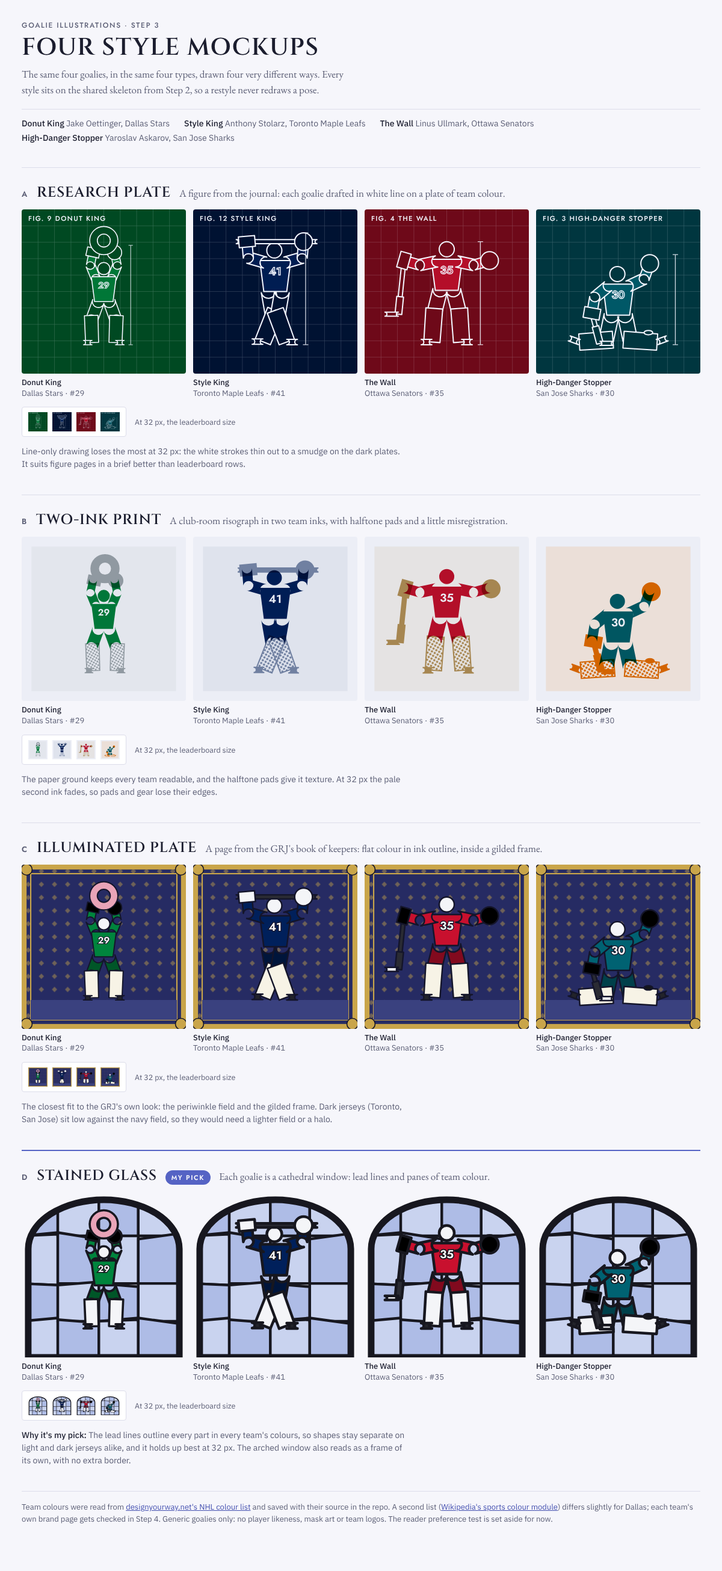
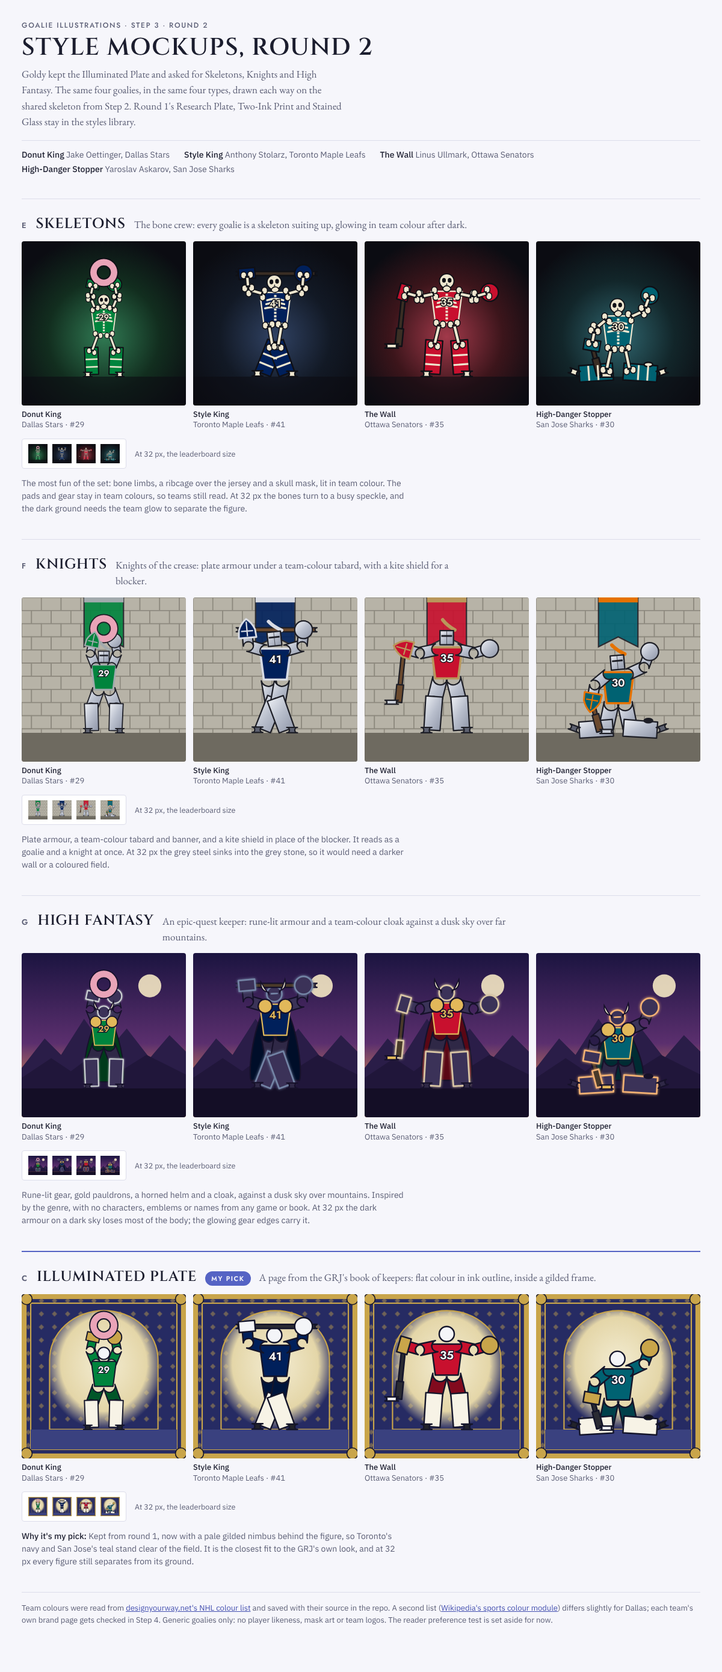
Goalie illustrations step 3 round 2: Skeletons, Knights, High Fantasy; nimbus for Illuminated Plate
Claude-Session: https://claude.ai/code/session_01Y4memTcNRCe5HDjMuxoTXv

diff --git a/illustrations/preview/styles.html b/illustrations/preview/styles.html
@@ -40,9 +40,9 @@ figcaption b { color: var(--fg); font-weight: 500; display: block }
 .foot a { color: var(--accent) }
 </style>
 <div class="wrap">
-  <p class="eyebrow">Goalie illustrations · Step 3</p>
-  <h1>Four Style Mockups</h1>
-  <p class="lede">The same four goalies, in the same four types, drawn four very different ways. Every style sits on the shared skeleton from Step 2, so a restyle never redraws a pose.</p>
+  <p class="eyebrow">Goalie illustrations · Step 3 · Round 2</p>
+  <h1>Style Mockups, Round 2</h1>
+  <p class="lede">Goldy kept the Illuminated Plate and asked for Skeletons, Knights and High Fantasy. The same four goalies, in the same four types, drawn each way on the shared skeleton from Step 2. Round 1's Research Plate, Two-Ink Print and Stained Glass stay in the styles library.</p>
   <ul class="subjects" id="subjects"></ul>
   <div id="styles"></div>
   <p class="foot">Team colours were read from <a href="https://www.designyourway.net/blog/nhl-team-color-codes/" rel="noopener">designyourway.net's NHL colour list</a> and saved with their source in the repo. A second list (<a href="https://wiki.riteme.site/wiki/Module:Sports_color/ice_hockey/sandbox" rel="noopener">Wikipedia's sports colour module</a>) differs slightly for Dallas; each team's own brand page gets checked in Step 4. Generic goalies only: no player likeness, mask art or team logos. The reader preference test is set aside for now.</p>
@@ -420,7 +420,8 @@ figcaption b { color: var(--fg); font-weight: 500; display: block }
       ${number(A, num, `font: 600 8.5px Jost, Futura, sans-serif; fill: ${paper}`)}</g></svg>`;
   }
 
-  /* D · Illuminated plate. Conceit: a page from the GRJ's book of keepers, flat colour in ink outline inside a gilded frame. */
+  /* C · Illuminated plate. Conceit: a page from the GRJ's book of keepers, flat colour in ink outline inside a gilded frame.
+     Round 2: a pale gilded nimbus behind the figure lifts dark jerseys off the navy field. */
   function illuminated(poseKey, t, num, opts = {}) {
     const A = G.parts(poseKey), gear = trim(t), ink = "#14152a", gold = "#C9A54A", field = "#262B63";
     const id = `dia-${poseKey}`;
@@ -429,14 +430,136 @@ figcaption b { color: var(--fg); font-weight: 500; display: block }
       let fill = roleFill(p.role, t, gear);
       if (p.role === "pad") fill = "#F7F3E6";
       if (p.role === "net") fill = gold;
+      if (p.role === "glove" || p.role === "blocker") fill = lum(gear) < 0.02 ? gold : gear;
       return `<path d="${p.d}" fill="${fill}" fill-rule="evenodd" stroke="${ink}" stroke-width="1.1" stroke-linejoin="round"/>`;
     }).join("");
-    return `${G.svgOpen(A.pose, opts)}<defs><pattern id="${id}" width="8" height="8" patternUnits="userSpaceOnUse"><path d="M4 2.4L5.6 4 4 5.6 2.4 4Z" fill="${gold}" opacity=".45"/></pattern></defs>
+    return `${G.svgOpen(A.pose, opts)}<defs><pattern id="${id}" width="8" height="8" patternUnits="userSpaceOnUse"><path d="M4 2.4L5.6 4 4 5.6 2.4 4Z" fill="${gold}" opacity=".45"/></pattern><radialGradient id="halo-${poseKey}" cx="50%" cy="45%" r="55%"><stop offset="0" stop-color="#F3ECD2"/><stop offset=".72" stop-color="#E4D6A8"/><stop offset="1" stop-color="#E4D6A8" stop-opacity="0"/></radialGradient></defs>
       <rect width="100" height="100" fill="${gold}"/><rect x="3" y="3" width="94" height="94" fill="${field}"/><rect x="3" y="3" width="94" height="94" fill="url(#${id})"/>
       <rect x="5.5" y="5.5" width="89" height="89" fill="none" stroke="${gold}" stroke-width=".8"/>
       ${[[3, 3], [97, 3], [3, 97], [97, 97]].map(([x, y]) => `<circle cx="${x}" cy="${y}" r="3.4" fill="${gold}" stroke="${ink}" stroke-width=".6"/>`).join("")}
+      <path d="M17 ${(7 + 0.82 * G.GROUND).toFixed(1)}V40A33 30 0 0 1 83 40V${(7 + 0.82 * G.GROUND).toFixed(1)}Z" fill="url(#halo-${poseKey})" stroke="${gold}" stroke-width=".8"/>
       <path d="M5.5 ${(7 + 0.82 * G.GROUND).toFixed(1)}H94.5V94.5H5.5Z" fill="#3a417f"/><g transform="${inset(A)}">${body}
       ${number(A, num, `font: 600 8.5px Jost, Futura, sans-serif; fill: #fff; paint-order: stroke; stroke: ${ink}; stroke-width: 1.2`)}</g></svg>`;
+  }
+
+
+  // Path helpers for styles that draw their own shapes from the skeleton's joints
+  const fx = (n) => Math.round(n * 10) / 10;
+  const P2 = (p) => `${fx(p[0])} ${fx(p[1])}`;
+  const unit = (a, b) => { const d = [b[0] - a[0], b[1] - a[1]], L = Math.hypot(d[0], d[1]) || 1; return [d[0] / L, d[1] / L]; };
+  const along = (p, u, k) => [p[0] + u[0] * k, p[1] + u[1] * k];
+  const circ = (c, r) => `M${fx(c[0] - r)} ${fx(c[1])}a${fx(r)} ${fx(r)} 0 1 0 ${fx(2 * r)} 0a${fx(r)} ${fx(r)} 0 1 0 ${fx(-2 * r)} 0Z`;
+  const stad = (a, b, w) => {
+    const u = unit(a, b), r = w / 2, n = [-u[1] * r, u[0] * r];
+    return `M${P2([a[0] + n[0], a[1] + n[1]])}L${P2([b[0] + n[0], b[1] + n[1]])}A${fx(r)} ${fx(r)} 0 0 1 ${P2([b[0] - n[0], b[1] - n[1]])}L${P2([a[0] - n[0], a[1] - n[1]])}A${fx(r)} ${fx(r)} 0 0 1 ${P2([a[0] + n[0], a[1] + n[1]])}Z`;
+  };
+  // A long bone: a shaft with two knuckles at each end
+  const bone = (a, b, w) => {
+    const u = unit(a, b), n = [-u[1], u[0]], k = w * 0.55;
+    return stad(along(a, u, w * 0.4), along(b, u, -w * 0.4), w * 0.55) +
+      [[a, 1], [b, -1]].map(([p, sgn]) => circ(along(along(p, u, sgn * w * 0.25), n, k), w * 0.45) + circ(along(along(p, u, sgn * w * 0.25), n, -k), w * 0.45)).join("");
+  };
+  const LIMBS = [["shBlocker", "elbowBlocker"], ["elbowBlocker", "handBlocker"], ["shGlove", "elbowGlove"], ["elbowGlove", "handGlove"], ["hipL", "kneeL"], ["hipR", "kneeR"]];
+
+  /* E · Skeletons. Conceit: the bone crew. Every goalie is a skeleton still suiting up, glowing in team colour after dark. */
+  function skeletons(poseKey, t, num, opts = {}) {
+    const A = G.parts(poseKey), P = A.P, ivory = "#EEE6CF", ink = "#0f1016", glow = ink2Of(t) === "#000000" ? t.accent : mix(t.primary, 0.25);
+    const keep = new Set(["net", "pad", "skate", "glove", "blocker", "shaft", "paddle", "blade", "puck", "donut", "streak", "torso"]);
+    const gear = A.parts.map((p) => {
+      if (p.role === "shadow") return `<path d="${p.d}" fill="${glow}" opacity=".35"/>`;
+      if (!keep.has(p.role)) return "";
+      const fill = { net: ivory, pad: t.primary, skate: ivory, glove: t.primary, blocker: t.primary, shaft: "#3a2e24", paddle: "#3a2e24", blade: ivory,
+        puck: ivory, donut: "#E9A4B8", streak: glow, torso: t.primary }[p.role];
+      return `<path d="${p.d}" fill="${fill}" fill-rule="evenodd" stroke="${p.role === "torso" ? ivory : ink}" stroke-width="${p.role === "torso" ? 1 : 1.1}" stroke-linejoin="round"/>`;
+    }).join("");
+    // Pads get bone-white straps, the torso a ribcage over the jersey
+    const straps = ["L", "R"].map((s) => {
+      const k = P["knee" + s], a = P["ankle" + s], u = unit(k, a), n = [-u[1], u[0]];
+      return [0.3, 0.65].map((f) => { const c = along(k, u, 20 * f); return `<path d="M${P2(along(c, n, -5.5))}L${P2(along(c, n, 5.5))}" stroke="${ivory}" stroke-width="1.4"/>`; }).join("");
+    }).join("");
+    const up = unit(P.pelvis, P.neck), side = [-up[1], up[0]];
+    const spine = `<path d="M${P2(along(P.pelvis, up, 2))}L${P2(along(P.neck, up, -2))}" stroke="${ivory}" stroke-width="1.8" stroke-dasharray="1.6 .9"/>`;
+    const ribs = [0.55, 0.68, 0.8].map((f) => {
+      const c = along(P.pelvis, up, 24 * f), w = 7.5 - (f - 0.55) * 6;
+      return `<path d="M${P2(along(along(c, side, -w), up, -2))}Q${P2(c)} ${P2(along(along(c, side, w), up, -2))}" fill="none" stroke="${ivory}" stroke-width="1.5" stroke-linecap="round"/>`;
+    }).join("");
+    const bones = LIMBS.map(([a, b]) => `<path d="${bone(P[a], P[b], 4.6)}" fill="${ivory}" stroke="${ink}" stroke-width=".7"/>`).join("") +
+      ["L", "R"].map((s) => `<path d="${bone(P["knee" + s], P["ankle" + s], 4)}" fill="${ivory}" stroke="${ink}" stroke-width=".6" opacity=".0"/>`).join("");
+    // Skull, facing the way the head points
+    const h = P.head, hd = unit(P.neck, h), hn = [-hd[1], hd[0]];
+    const eye = (sgn) => circ(along(along(h, hn, sgn * 2.1), hd, 0.6), 1.35);
+    const skull = `<path d="${circ(h, 5.4)}" fill="${ivory}" stroke="${ink}" stroke-width=".8"/>
+      <path d="${stad(along(h, hd, -5), along(h, hd, -6.4), 6)}" fill="${ivory}" stroke="${ink}" stroke-width=".7"/>
+      <path d="${eye(1)}${eye(-1)}" fill="${ink}"/><path d="M${P2(along(h, hd, -1.4))}l.6 1.4h-1.2Z" fill="${ink}"/>`;
+    const bodyParts = A.parts.filter((p) => p.role !== "torso");
+    const torso = A.parts.find((p) => p.role === "torso");
+    return `${G.svgOpen(A.pose, opts)}<defs><radialGradient id="night-${poseKey}" cx="50%" cy="58%" r="62%"><stop offset="0" stop-color="${mix(glow, -0.25)}"/><stop offset=".55" stop-color="${mix(glow, -0.72)}"/><stop offset="1" stop-color="#0b0c12"/></radialGradient></defs>
+      <rect width="100" height="100" fill="url(#night-${poseKey})"/><path d="M0 ${(7 + 0.82 * G.GROUND).toFixed(1)}H100V100H0Z" fill="#0b0c12" opacity=".6"/>
+      <g transform="${inset(A)}">${gear}${straps}${bones}${spine}${ribs}${skull}
+      ${number(A, num, `font: 600 7.5px Jost, Futura, sans-serif; fill: ${ivory}; paint-order: stroke; stroke: ${ink}; stroke-width: 1.4`)}</g></svg>`;
+  }
+
+  /* F · Knights. Conceit: the keeper as a knight of the crease, plate armour under a tabard in team colours, shield for a blocker. */
+  function knights(poseKey, t, num, opts = {}) {
+    const A = G.parts(poseKey), P = A.P, ink = "#1d1e26", trimC = t.accent.toUpperCase() !== t.primary.toUpperCase() ? t.accent : "#D9DCE4";
+    const steel = `url(#steel-${poseKey})`;
+    const body = A.parts.map((p) => {
+      if (p.role === "shadow") return `<path d="${p.d}" fill="#000" opacity=".3"/>`;
+      if (p.role === "blocker" || p.role === "mask") return "";
+      const fill = { net: "#8b5a2b", thigh: steel, pad: steel, skate: "#5d6170", torso: t.primary, arm: steel, glove: steel,
+        shaft: "#6b4a2e", paddle: "#6b4a2e", blade: "#c9ced8", puck: ink, donut: "#E9A4B8", streak: "#c9ced8" }[p.role];
+      return `<path d="${p.d}" fill="${fill}" fill-rule="evenodd" stroke="${p.role === "torso" ? trimC : ink}" stroke-width="${p.role === "torso" ? 1.6 : 1}" stroke-linejoin="round"/>`;
+    }).join("");
+    // Kite shield on the blocker hand, square to the forearm
+    const hb = P.handBlocker, fu = unit(P.elbowBlocker, hb), fn = [-fu[1], fu[0]];
+    const sh = [along(along(hb, fu, -6), fn, -6.5), along(along(hb, fu, -6), fn, 6.5), along(hb, fn, 6), along(along(hb, fu, 8), fn, 0), along(hb, fn, -6)];
+    const shield = `<path d="M${P2(sh[0])}L${P2(sh[1])}L${P2(sh[2])}Q${P2(along(along(hb, fu, 5), fn, 4))} ${P2(sh[3])}Q${P2(along(along(hb, fu, 5), fn, -4))} ${P2(sh[4])}Z" fill="${t.primary}" stroke="${trimC}" stroke-width="1.3" stroke-linejoin="round"/>
+      <path d="M${P2(along(hb, fu, -5))}L${P2(along(hb, fu, 6))}M${P2(along(along(hb, fu, -1), fn, -4.5))}L${P2(along(along(hb, fu, -1), fn, 4.5))}" stroke="${trimC}" stroke-width="1"/>`;
+    // Great helm with a visor slit and a plume in the trim colour
+    const h = P.head, hd = unit(P.neck, h), hn = [-hd[1], hd[0]];
+    const c = (a, b) => along(along(h, hd, a), hn, b);
+    const helm = `<path d="M${P2(c(5.5, 6))}Q${P2(c(9, 0))} ${P2(c(13, -3))}" fill="none" stroke="${trimC}" stroke-width="2.6" stroke-linecap="round"/>
+      <path d="M${P2(c(5, -5))}L${P2(c(5, 5))}L${P2(c(-5.5, 5))}L${P2(c(-5.5, -5))}Z" fill="${steel}" stroke="${ink}" stroke-width="1" stroke-linejoin="round"/>
+      <path d="M${P2(c(1, -4))}L${P2(c(1, 4))}" stroke="${ink}" stroke-width="1.3"/><path d="M${P2(c(5, 0))}L${P2(c(-5.5, 0))}" stroke="${ink}" stroke-width=".5" opacity=".6"/>`;
+    const blocks = [];
+    for (let y = 0; y < 84; y += 8) for (let x = (y / 8) % 2 ? -6 : 0; x < 100; x += 12) blocks.push(`<rect x="${x}" y="${y}" width="12" height="8"/>`);
+    return `${G.svgOpen(A.pose, opts)}<defs><linearGradient id="steel-${poseKey}" x1="0" y1="0" x2="1" y2="1"><stop offset="0" stop-color="#F2F4F8"/><stop offset=".5" stop-color="#B8BECC"/><stop offset="1" stop-color="#8D94A6"/></linearGradient></defs>
+      <rect width="100" height="100" fill="#a9a59a"/><g fill="#b7b3a7" stroke="#8d897e" stroke-width=".6">${blocks.join("")}</g>
+      <path d="M38 0H62V30L50 24 38 30Z" fill="${t.primary}" stroke="${ink}" stroke-width=".8" opacity=".9"/><path d="M38 0H62V3H38Z" fill="${trimC}"/>
+      <path d="M0 ${(7 + 0.82 * G.GROUND).toFixed(1)}H100V100H0Z" fill="#6e6a60"/>
+      <g transform="${inset(A)}">${body}${shield}${helm}
+      ${number(A, num, `font: 600 8px Jost, Futura, sans-serif; fill: #fff; paint-order: stroke; stroke: ${ink}; stroke-width: 1.3`)}</g></svg>`;
+  }
+
+  /* G · High fantasy. Conceit: an epic-quest keeper, rune-lit armour and a team-colour cloak against a dusk sky over far mountains. */
+  function fantasy(poseKey, t, num, opts = {}) {
+    const A = G.parts(poseKey), P = A.P, ink = "#16112a", gold = "#E2B85A";
+    const rune = mix(t.accent.toUpperCase() !== t.primary.toUpperCase() ? t.accent : t.primary, 0.45);
+    const dark = mix(t.primary, -0.55);
+    // A cloak from the shoulders, flaring behind the body toward the ice
+    const up = unit(P.pelvis, P.neck), side = [-up[1], up[0]];
+    const sb = P.shBlocker, sg = P.shGlove, foot = Math.max(P.ankleL[1], P.ankleR[1]) - 4;
+    const cloak = `<path d="M${P2(sb)}C${P2([sb[0] - 10, sb[1] + 20])} ${P2([P.pelvis[0] - 20, foot - 6])} ${P2([P.pelvis[0] - 18, foot])}L${P2([P.pelvis[0] + 18, foot])}C${P2([P.pelvis[0] + 20, foot - 6])} ${P2([sg[0] + 10, sg[1] + 20])} ${P2(sg)}Z" fill="${dark}" stroke="${ink}" stroke-width="1"/>`;
+    const body = A.parts.map((p) => {
+      if (p.role === "shadow") return `<path d="${p.d}" fill="${rune}" opacity=".4"/>`;
+      const fill = { net: gold, thigh: "#2f2846", pad: "#3b3358", skate: "#2f2846", torso: t.primary, arm: "#3b3358", glove: "#3b3358", blocker: "#3b3358",
+        mask: "#3b3358", shaft: "#4a3a2a", paddle: "#4a3a2a", blade: gold, puck: ink, donut: "#E9A4B8", streak: rune }[p.role];
+      const glowing = ["pad", "glove", "blocker", "mask", "paddle"].includes(p.role);
+      return `<path d="${p.d}" fill="${fill}" fill-rule="evenodd" stroke="${glowing ? rune : p.role === "torso" ? gold : ink}" stroke-width="${glowing ? 1.2 : 1}" stroke-linejoin="round"${glowing ? ` filter="url(#glow-${poseKey})"` : ""}/>`;
+    }).join("");
+    // Pauldrons, and horns on the helm
+    const pauldrons = [sb, sg].map((s) => `<path d="${circ(s, 5.2)}" fill="${gold}" stroke="${ink}" stroke-width="1"/>`).join("");
+    const h = P.head, hd = unit(P.neck, h), hn = [-hd[1], hd[0]];
+    const horn = (sgn) => { const b = along(along(h, hn, sgn * 4), hd, 2); return `<path d="M${P2(b)}Q${P2(along(along(b, hn, sgn * 6), hd, 1))} ${P2(along(along(b, hn, sgn * 5), hd, 8))}Q${P2(along(along(b, hn, sgn * 3), hd, 3))} ${P2(along(b, hd, -1.5))}Z" fill="#E9E1C8" stroke="${ink}" stroke-width=".8"/>`; };
+    const eyes = `<path d="M${P2(along(along(h, hd, .5), hn, -2.6))}L${P2(along(along(h, hd, .5), hn, 2.6))}" stroke="${rune}" stroke-width="1.2" filter="url(#glow-${poseKey})"/>`;
+    const gy = (7 + 0.82 * G.GROUND).toFixed(1);
+    return `${G.svgOpen(A.pose, opts)}<defs><linearGradient id="dusk-${poseKey}" x1="0" y1="0" x2="0" y2="1"><stop offset="0" stop-color="#1b1440"/><stop offset=".55" stop-color="#5b2f6e"/><stop offset=".85" stop-color="#d98a52"/></linearGradient>
+      <filter id="glow-${poseKey}" x="-30%" y="-30%" width="160%" height="160%"><feGaussianBlur stdDeviation=".9" result="b"/><feMerge><feMergeNode in="b"/><feMergeNode in="SourceGraphic"/></feMerge></filter></defs>
+      <rect width="100" height="100" fill="url(#dusk-${poseKey})"/><circle cx="78" cy="20" r="7" fill="#F4E7C3" opacity=".9"/>
+      <path d="M0 70L14 52 24 62 38 40 52 60 64 46 78 64 90 50 100 60V${gy}H0Z" fill="#2a1d48"/><path d="M0 76L18 64 30 72 46 60 60 72 76 62 100 74V${gy}H0Z" fill="#20163a"/>
+      <path d="M0 ${gy}H100V100H0Z" fill="#140e26"/>
+      <g transform="${inset(A)}">${cloak}${body}${pauldrons}${horn(1)}${horn(-1)}${eyes}
+      ${number(A, num, `font: 600 8px Jost, Futura, sans-serif; fill: ${gold}; paint-order: stroke; stroke: ${ink}; stroke-width: 1.3`)}</g></svg>`;
   }
 
   return {
@@ -446,6 +569,9 @@ figcaption b { color: var(--fg); font-weight: 500; display: block }
       plate: { name: "Research Plate", conceit: "A figure from the journal: each goalie drafted in white line on a plate of team colour.", draw: plate },
       riso: { name: "Two-Ink Print", conceit: "A club-room risograph in two team inks, with halftone pads and a little misregistration.", draw: riso },
       illuminated: { name: "Illuminated Plate", conceit: "A page from the GRJ's book of keepers: flat colour in ink outline, inside a gilded frame.", draw: illuminated },
+      skeletons: { name: "Skeletons", conceit: "The bone crew: every goalie is a skeleton suiting up, glowing in team colour after dark.", draw: skeletons },
+      knights: { name: "Knights", conceit: "Knights of the crease: plate armour under a team-colour tabard, with a kite shield for a blocker.", draw: knights },
+      fantasy: { name: "High Fantasy", conceit: "An epic-quest keeper: rune-lit armour and a team-colour cloak against a dusk sky over far mountains.", draw: fantasy },
     },
   };
 });
@@ -474,10 +600,10 @@ const SUBJECTS = [
   { pose: "hd-stopper", team: "SJS", num: "30", who: "Yaroslav Askarov" },
 ];
 const ORDER = [
-  ["plate", "A", "Line-only drawing loses the most at 32 px: the white strokes thin out to a smudge on the dark plates. It suits figure pages in a brief better than leaderboard rows."],
-  ["riso", "B", "The paper ground keeps every team readable, and the halftone pads give it texture. At 32 px the pale second ink fades, so pads and gear lose their edges."],
-  ["illuminated", "C", "The closest fit to the GRJ's own look: the periwinkle field and the gilded frame. Dark jerseys (Toronto, San Jose) sit low against the navy field, so they would need a lighter field or a halo."],
-  ["glass", "D", "The lead lines outline every part in every team's colours, so shapes stay separate on light and dark jerseys alike, and it holds up best at 32 px. The arched window also reads as a frame of its own, with no extra border."],
+  ["skeletons", "E", "The most fun of the set: bone limbs, a ribcage over the jersey and a skull mask, lit in team colour. The pads and gear stay in team colours, so teams still read. At 32 px the bones turn to a busy speckle, and the dark ground needs the team glow to separate the figure."],
+  ["knights", "F", "Plate armour, a team-colour tabard and banner, and a kite shield in place of the blocker. It reads as a goalie and a knight at once. At 32 px the grey steel sinks into the grey stone, so it would need a darker wall or a coloured field."],
+  ["fantasy", "G", "Rune-lit gear, gold pauldrons, a horned helm and a cloak, against a dusk sky over mountains. Inspired by the genre, with no characters, emblems or names from any game or book. At 32 px the dark armour on a dark sky loses most of the body; the glowing gear edges carry it."],
+  ["illuminated", "C", "Kept from round 1, now with a pale gilded nimbus behind the figure, so Toronto's navy and San Jose's teal stand clear of the field. It is the closest fit to the GRJ's own look, and at 32 px every figure still separates from its ground."],
 ];
 document.getElementById("subjects").innerHTML = SUBJECTS.map((s) => `<li><b>${G.POSES[s.pose].name}</b> ${s.who}, ${TEAMS[s.team].name}</li>`).join("");
 document.getElementById("styles").innerHTML = ORDER.map(([k, letter, why], i) => {

diff --git a/illustrations/styles.js b/illustrations/styles.js
@@ -103,7 +103,8 @@
       ${number(A, num, `font: 600 8.5px Jost, Futura, sans-serif; fill: ${paper}`)}</g></svg>`;
   }
 
-  /* D · Illuminated plate. Conceit: a page from the GRJ's book of keepers, flat colour in ink outline inside a gilded frame. */
+  /* C · Illuminated plate. Conceit: a page from the GRJ's book of keepers, flat colour in ink outline inside a gilded frame.
+     Round 2: a pale gilded nimbus behind the figure lifts dark jerseys off the navy field. */
   function illuminated(poseKey, t, num, opts = {}) {
     const A = G.parts(poseKey), gear = trim(t), ink = "#14152a", gold = "#C9A54A", field = "#262B63";
     const id = `dia-${poseKey}`;
@@ -112,14 +113,136 @@
       let fill = roleFill(p.role, t, gear);
       if (p.role === "pad") fill = "#F7F3E6";
       if (p.role === "net") fill = gold;
+      if (p.role === "glove" || p.role === "blocker") fill = lum(gear) < 0.02 ? gold : gear;
       return `<path d="${p.d}" fill="${fill}" fill-rule="evenodd" stroke="${ink}" stroke-width="1.1" stroke-linejoin="round"/>`;
     }).join("");
-    return `${G.svgOpen(A.pose, opts)}<defs><pattern id="${id}" width="8" height="8" patternUnits="userSpaceOnUse"><path d="M4 2.4L5.6 4 4 5.6 2.4 4Z" fill="${gold}" opacity=".45"/></pattern></defs>
+    return `${G.svgOpen(A.pose, opts)}<defs><pattern id="${id}" width="8" height="8" patternUnits="userSpaceOnUse"><path d="M4 2.4L5.6 4 4 5.6 2.4 4Z" fill="${gold}" opacity=".45"/></pattern><radialGradient id="halo-${poseKey}" cx="50%" cy="45%" r="55%"><stop offset="0" stop-color="#F3ECD2"/><stop offset=".72" stop-color="#E4D6A8"/><stop offset="1" stop-color="#E4D6A8" stop-opacity="0"/></radialGradient></defs>
       <rect width="100" height="100" fill="${gold}"/><rect x="3" y="3" width="94" height="94" fill="${field}"/><rect x="3" y="3" width="94" height="94" fill="url(#${id})"/>
       <rect x="5.5" y="5.5" width="89" height="89" fill="none" stroke="${gold}" stroke-width=".8"/>
       ${[[3, 3], [97, 3], [3, 97], [97, 97]].map(([x, y]) => `<circle cx="${x}" cy="${y}" r="3.4" fill="${gold}" stroke="${ink}" stroke-width=".6"/>`).join("")}
+      <path d="M17 ${(7 + 0.82 * G.GROUND).toFixed(1)}V40A33 30 0 0 1 83 40V${(7 + 0.82 * G.GROUND).toFixed(1)}Z" fill="url(#halo-${poseKey})" stroke="${gold}" stroke-width=".8"/>
       <path d="M5.5 ${(7 + 0.82 * G.GROUND).toFixed(1)}H94.5V94.5H5.5Z" fill="#3a417f"/><g transform="${inset(A)}">${body}
       ${number(A, num, `font: 600 8.5px Jost, Futura, sans-serif; fill: #fff; paint-order: stroke; stroke: ${ink}; stroke-width: 1.2`)}</g></svg>`;
+  }
+
+
+  // Path helpers for styles that draw their own shapes from the skeleton's joints
+  const fx = (n) => Math.round(n * 10) / 10;
+  const P2 = (p) => `${fx(p[0])} ${fx(p[1])}`;
+  const unit = (a, b) => { const d = [b[0] - a[0], b[1] - a[1]], L = Math.hypot(d[0], d[1]) || 1; return [d[0] / L, d[1] / L]; };
+  const along = (p, u, k) => [p[0] + u[0] * k, p[1] + u[1] * k];
+  const circ = (c, r) => `M${fx(c[0] - r)} ${fx(c[1])}a${fx(r)} ${fx(r)} 0 1 0 ${fx(2 * r)} 0a${fx(r)} ${fx(r)} 0 1 0 ${fx(-2 * r)} 0Z`;
+  const stad = (a, b, w) => {
+    const u = unit(a, b), r = w / 2, n = [-u[1] * r, u[0] * r];
+    return `M${P2([a[0] + n[0], a[1] + n[1]])}L${P2([b[0] + n[0], b[1] + n[1]])}A${fx(r)} ${fx(r)} 0 0 1 ${P2([b[0] - n[0], b[1] - n[1]])}L${P2([a[0] - n[0], a[1] - n[1]])}A${fx(r)} ${fx(r)} 0 0 1 ${P2([a[0] + n[0], a[1] + n[1]])}Z`;
+  };
+  // A long bone: a shaft with two knuckles at each end
+  const bone = (a, b, w) => {
+    const u = unit(a, b), n = [-u[1], u[0]], k = w * 0.55;
+    return stad(along(a, u, w * 0.4), along(b, u, -w * 0.4), w * 0.55) +
+      [[a, 1], [b, -1]].map(([p, sgn]) => circ(along(along(p, u, sgn * w * 0.25), n, k), w * 0.45) + circ(along(along(p, u, sgn * w * 0.25), n, -k), w * 0.45)).join("");
+  };
+  const LIMBS = [["shBlocker", "elbowBlocker"], ["elbowBlocker", "handBlocker"], ["shGlove", "elbowGlove"], ["elbowGlove", "handGlove"], ["hipL", "kneeL"], ["hipR", "kneeR"]];
+
+  /* E · Skeletons. Conceit: the bone crew. Every goalie is a skeleton still suiting up, glowing in team colour after dark. */
+  function skeletons(poseKey, t, num, opts = {}) {
+    const A = G.parts(poseKey), P = A.P, ivory = "#EEE6CF", ink = "#0f1016", glow = ink2Of(t) === "#000000" ? t.accent : mix(t.primary, 0.25);
+    const keep = new Set(["net", "pad", "skate", "glove", "blocker", "shaft", "paddle", "blade", "puck", "donut", "streak", "torso"]);
+    const gear = A.parts.map((p) => {
+      if (p.role === "shadow") return `<path d="${p.d}" fill="${glow}" opacity=".35"/>`;
+      if (!keep.has(p.role)) return "";
+      const fill = { net: ivory, pad: t.primary, skate: ivory, glove: t.primary, blocker: t.primary, shaft: "#3a2e24", paddle: "#3a2e24", blade: ivory,
+        puck: ivory, donut: "#E9A4B8", streak: glow, torso: t.primary }[p.role];
+      return `<path d="${p.d}" fill="${fill}" fill-rule="evenodd" stroke="${p.role === "torso" ? ivory : ink}" stroke-width="${p.role === "torso" ? 1 : 1.1}" stroke-linejoin="round"/>`;
+    }).join("");
+    // Pads get bone-white straps, the torso a ribcage over the jersey
+    const straps = ["L", "R"].map((s) => {
+      const k = P["knee" + s], a = P["ankle" + s], u = unit(k, a), n = [-u[1], u[0]];
+      return [0.3, 0.65].map((f) => { const c = along(k, u, 20 * f); return `<path d="M${P2(along(c, n, -5.5))}L${P2(along(c, n, 5.5))}" stroke="${ivory}" stroke-width="1.4"/>`; }).join("");
+    }).join("");
+    const up = unit(P.pelvis, P.neck), side = [-up[1], up[0]];
+    const spine = `<path d="M${P2(along(P.pelvis, up, 2))}L${P2(along(P.neck, up, -2))}" stroke="${ivory}" stroke-width="1.8" stroke-dasharray="1.6 .9"/>`;
+    const ribs = [0.55, 0.68, 0.8].map((f) => {
+      const c = along(P.pelvis, up, 24 * f), w = 7.5 - (f - 0.55) * 6;
+      return `<path d="M${P2(along(along(c, side, -w), up, -2))}Q${P2(c)} ${P2(along(along(c, side, w), up, -2))}" fill="none" stroke="${ivory}" stroke-width="1.5" stroke-linecap="round"/>`;
+    }).join("");
+    const bones = LIMBS.map(([a, b]) => `<path d="${bone(P[a], P[b], 4.6)}" fill="${ivory}" stroke="${ink}" stroke-width=".7"/>`).join("") +
+      ["L", "R"].map((s) => `<path d="${bone(P["knee" + s], P["ankle" + s], 4)}" fill="${ivory}" stroke="${ink}" stroke-width=".6" opacity=".0"/>`).join("");
+    // Skull, facing the way the head points
+    const h = P.head, hd = unit(P.neck, h), hn = [-hd[1], hd[0]];
+    const eye = (sgn) => circ(along(along(h, hn, sgn * 2.1), hd, 0.6), 1.35);
+    const skull = `<path d="${circ(h, 5.4)}" fill="${ivory}" stroke="${ink}" stroke-width=".8"/>
+      <path d="${stad(along(h, hd, -5), along(h, hd, -6.4), 6)}" fill="${ivory}" stroke="${ink}" stroke-width=".7"/>
+      <path d="${eye(1)}${eye(-1)}" fill="${ink}"/><path d="M${P2(along(h, hd, -1.4))}l.6 1.4h-1.2Z" fill="${ink}"/>`;
+    const bodyParts = A.parts.filter((p) => p.role !== "torso");
+    const torso = A.parts.find((p) => p.role === "torso");
+    return `${G.svgOpen(A.pose, opts)}<defs><radialGradient id="night-${poseKey}" cx="50%" cy="58%" r="62%"><stop offset="0" stop-color="${mix(glow, -0.25)}"/><stop offset=".55" stop-color="${mix(glow, -0.72)}"/><stop offset="1" stop-color="#0b0c12"/></radialGradient></defs>
+      <rect width="100" height="100" fill="url(#night-${poseKey})"/><path d="M0 ${(7 + 0.82 * G.GROUND).toFixed(1)}H100V100H0Z" fill="#0b0c12" opacity=".6"/>
+      <g transform="${inset(A)}">${gear}${straps}${bones}${spine}${ribs}${skull}
+      ${number(A, num, `font: 600 7.5px Jost, Futura, sans-serif; fill: ${ivory}; paint-order: stroke; stroke: ${ink}; stroke-width: 1.4`)}</g></svg>`;
+  }
+
+  /* F · Knights. Conceit: the keeper as a knight of the crease, plate armour under a tabard in team colours, shield for a blocker. */
+  function knights(poseKey, t, num, opts = {}) {
+    const A = G.parts(poseKey), P = A.P, ink = "#1d1e26", trimC = t.accent.toUpperCase() !== t.primary.toUpperCase() ? t.accent : "#D9DCE4";
+    const steel = `url(#steel-${poseKey})`;
+    const body = A.parts.map((p) => {
+      if (p.role === "shadow") return `<path d="${p.d}" fill="#000" opacity=".3"/>`;
+      if (p.role === "blocker" || p.role === "mask") return "";
+      const fill = { net: "#8b5a2b", thigh: steel, pad: steel, skate: "#5d6170", torso: t.primary, arm: steel, glove: steel,
+        shaft: "#6b4a2e", paddle: "#6b4a2e", blade: "#c9ced8", puck: ink, donut: "#E9A4B8", streak: "#c9ced8" }[p.role];
+      return `<path d="${p.d}" fill="${fill}" fill-rule="evenodd" stroke="${p.role === "torso" ? trimC : ink}" stroke-width="${p.role === "torso" ? 1.6 : 1}" stroke-linejoin="round"/>`;
+    }).join("");
+    // Kite shield on the blocker hand, square to the forearm
+    const hb = P.handBlocker, fu = unit(P.elbowBlocker, hb), fn = [-fu[1], fu[0]];
+    const sh = [along(along(hb, fu, -6), fn, -6.5), along(along(hb, fu, -6), fn, 6.5), along(hb, fn, 6), along(along(hb, fu, 8), fn, 0), along(hb, fn, -6)];
+    const shield = `<path d="M${P2(sh[0])}L${P2(sh[1])}L${P2(sh[2])}Q${P2(along(along(hb, fu, 5), fn, 4))} ${P2(sh[3])}Q${P2(along(along(hb, fu, 5), fn, -4))} ${P2(sh[4])}Z" fill="${t.primary}" stroke="${trimC}" stroke-width="1.3" stroke-linejoin="round"/>
+      <path d="M${P2(along(hb, fu, -5))}L${P2(along(hb, fu, 6))}M${P2(along(along(hb, fu, -1), fn, -4.5))}L${P2(along(along(hb, fu, -1), fn, 4.5))}" stroke="${trimC}" stroke-width="1"/>`;
+    // Great helm with a visor slit and a plume in the trim colour
+    const h = P.head, hd = unit(P.neck, h), hn = [-hd[1], hd[0]];
+    const c = (a, b) => along(along(h, hd, a), hn, b);
+    const helm = `<path d="M${P2(c(5.5, 6))}Q${P2(c(9, 0))} ${P2(c(13, -3))}" fill="none" stroke="${trimC}" stroke-width="2.6" stroke-linecap="round"/>
+      <path d="M${P2(c(5, -5))}L${P2(c(5, 5))}L${P2(c(-5.5, 5))}L${P2(c(-5.5, -5))}Z" fill="${steel}" stroke="${ink}" stroke-width="1" stroke-linejoin="round"/>
+      <path d="M${P2(c(1, -4))}L${P2(c(1, 4))}" stroke="${ink}" stroke-width="1.3"/><path d="M${P2(c(5, 0))}L${P2(c(-5.5, 0))}" stroke="${ink}" stroke-width=".5" opacity=".6"/>`;
+    const blocks = [];
+    for (let y = 0; y < 84; y += 8) for (let x = (y / 8) % 2 ? -6 : 0; x < 100; x += 12) blocks.push(`<rect x="${x}" y="${y}" width="12" height="8"/>`);
+    return `${G.svgOpen(A.pose, opts)}<defs><linearGradient id="steel-${poseKey}" x1="0" y1="0" x2="1" y2="1"><stop offset="0" stop-color="#F2F4F8"/><stop offset=".5" stop-color="#B8BECC"/><stop offset="1" stop-color="#8D94A6"/></linearGradient></defs>
+      <rect width="100" height="100" fill="#a9a59a"/><g fill="#b7b3a7" stroke="#8d897e" stroke-width=".6">${blocks.join("")}</g>
+      <path d="M38 0H62V30L50 24 38 30Z" fill="${t.primary}" stroke="${ink}" stroke-width=".8" opacity=".9"/><path d="M38 0H62V3H38Z" fill="${trimC}"/>
+      <path d="M0 ${(7 + 0.82 * G.GROUND).toFixed(1)}H100V100H0Z" fill="#6e6a60"/>
+      <g transform="${inset(A)}">${body}${shield}${helm}
+      ${number(A, num, `font: 600 8px Jost, Futura, sans-serif; fill: #fff; paint-order: stroke; stroke: ${ink}; stroke-width: 1.3`)}</g></svg>`;
+  }
+
+  /* G · High fantasy. Conceit: an epic-quest keeper, rune-lit armour and a team-colour cloak against a dusk sky over far mountains. */
+  function fantasy(poseKey, t, num, opts = {}) {
+    const A = G.parts(poseKey), P = A.P, ink = "#16112a", gold = "#E2B85A";
+    const rune = mix(t.accent.toUpperCase() !== t.primary.toUpperCase() ? t.accent : t.primary, 0.45);
+    const dark = mix(t.primary, -0.55);
+    // A cloak from the shoulders, flaring behind the body toward the ice
+    const up = unit(P.pelvis, P.neck), side = [-up[1], up[0]];
+    const sb = P.shBlocker, sg = P.shGlove, foot = Math.max(P.ankleL[1], P.ankleR[1]) - 4;
+    const cloak = `<path d="M${P2(sb)}C${P2([sb[0] - 10, sb[1] + 20])} ${P2([P.pelvis[0] - 20, foot - 6])} ${P2([P.pelvis[0] - 18, foot])}L${P2([P.pelvis[0] + 18, foot])}C${P2([P.pelvis[0] + 20, foot - 6])} ${P2([sg[0] + 10, sg[1] + 20])} ${P2(sg)}Z" fill="${dark}" stroke="${ink}" stroke-width="1"/>`;
+    const body = A.parts.map((p) => {
+      if (p.role === "shadow") return `<path d="${p.d}" fill="${rune}" opacity=".4"/>`;
+      const fill = { net: gold, thigh: "#2f2846", pad: "#3b3358", skate: "#2f2846", torso: t.primary, arm: "#3b3358", glove: "#3b3358", blocker: "#3b3358",
+        mask: "#3b3358", shaft: "#4a3a2a", paddle: "#4a3a2a", blade: gold, puck: ink, donut: "#E9A4B8", streak: rune }[p.role];
+      const glowing = ["pad", "glove", "blocker", "mask", "paddle"].includes(p.role);
+      return `<path d="${p.d}" fill="${fill}" fill-rule="evenodd" stroke="${glowing ? rune : p.role === "torso" ? gold : ink}" stroke-width="${glowing ? 1.2 : 1}" stroke-linejoin="round"${glowing ? ` filter="url(#glow-${poseKey})"` : ""}/>`;
+    }).join("");
+    // Pauldrons, and horns on the helm
+    const pauldrons = [sb, sg].map((s) => `<path d="${circ(s, 5.2)}" fill="${gold}" stroke="${ink}" stroke-width="1"/>`).join("");
+    const h = P.head, hd = unit(P.neck, h), hn = [-hd[1], hd[0]];
+    const horn = (sgn) => { const b = along(along(h, hn, sgn * 4), hd, 2); return `<path d="M${P2(b)}Q${P2(along(along(b, hn, sgn * 6), hd, 1))} ${P2(along(along(b, hn, sgn * 5), hd, 8))}Q${P2(along(along(b, hn, sgn * 3), hd, 3))} ${P2(along(b, hd, -1.5))}Z" fill="#E9E1C8" stroke="${ink}" stroke-width=".8"/>`; };
+    const eyes = `<path d="M${P2(along(along(h, hd, .5), hn, -2.6))}L${P2(along(along(h, hd, .5), hn, 2.6))}" stroke="${rune}" stroke-width="1.2" filter="url(#glow-${poseKey})"/>`;
+    const gy = (7 + 0.82 * G.GROUND).toFixed(1);
+    return `${G.svgOpen(A.pose, opts)}<defs><linearGradient id="dusk-${poseKey}" x1="0" y1="0" x2="0" y2="1"><stop offset="0" stop-color="#1b1440"/><stop offset=".55" stop-color="#5b2f6e"/><stop offset=".85" stop-color="#d98a52"/></linearGradient>
+      <filter id="glow-${poseKey}" x="-30%" y="-30%" width="160%" height="160%"><feGaussianBlur stdDeviation=".9" result="b"/><feMerge><feMergeNode in="b"/><feMergeNode in="SourceGraphic"/></feMerge></filter></defs>
+      <rect width="100" height="100" fill="url(#dusk-${poseKey})"/><circle cx="78" cy="20" r="7" fill="#F4E7C3" opacity=".9"/>
+      <path d="M0 70L14 52 24 62 38 40 52 60 64 46 78 64 90 50 100 60V${gy}H0Z" fill="#2a1d48"/><path d="M0 76L18 64 30 72 46 60 60 72 76 62 100 74V${gy}H0Z" fill="#20163a"/>
+      <path d="M0 ${gy}H100V100H0Z" fill="#140e26"/>
+      <g transform="${inset(A)}">${cloak}${body}${pauldrons}${horn(1)}${horn(-1)}${eyes}
+      ${number(A, num, `font: 600 8px Jost, Futura, sans-serif; fill: ${gold}; paint-order: stroke; stroke: ${ink}; stroke-width: 1.3`)}</g></svg>`;
   }
 
   return {
@@ -129,6 +252,9 @@
       plate: { name: "Research Plate", conceit: "A figure from the journal: each goalie drafted in white line on a plate of team colour.", draw: plate },
       riso: { name: "Two-Ink Print", conceit: "A club-room risograph in two team inks, with halftone pads and a little misregistration.", draw: riso },
       illuminated: { name: "Illuminated Plate", conceit: "A page from the GRJ's book of keepers: flat colour in ink outline, inside a gilded frame.", draw: illuminated },
+      skeletons: { name: "Skeletons", conceit: "The bone crew: every goalie is a skeleton suiting up, glowing in team colour after dark.", draw: skeletons },
+      knights: { name: "Knights", conceit: "Knights of the crease: plate armour under a team-colour tabard, with a kite shield for a blocker.", draw: knights },
+      fantasy: { name: "High Fantasy", conceit: "An epic-quest keeper: rune-lit armour and a team-colour cloak against a dusk sky over far mountains.", draw: fantasy },
     },
   };
 });

diff --git a/illustrations/preview/styles.tpl.html b/illustrations/preview/styles.tpl.html
@@ -40,9 +40,9 @@ figcaption b { color: var(--fg); font-weight: 500; display: block }
 .foot a { color: var(--accent) }
 </style>
 <div class="wrap">
-  <p class="eyebrow">Goalie illustrations · Step 3</p>
-  <h1>Four Style Mockups</h1>
-  <p class="lede">The same four goalies, in the same four types, drawn four very different ways. Every style sits on the shared skeleton from Step 2, so a restyle never redraws a pose.</p>
+  <p class="eyebrow">Goalie illustrations · Step 3 · Round 2</p>
+  <h1>Style Mockups, Round 2</h1>
+  <p class="lede">Goldy kept the Illuminated Plate and asked for Skeletons, Knights and High Fantasy. The same four goalies, in the same four types, drawn each way on the shared skeleton from Step 2. Round 1's Research Plate, Two-Ink Print and Stained Glass stay in the styles library.</p>
   <ul class="subjects" id="subjects"></ul>
   <div id="styles"></div>
   <p class="foot">Team colours were read from <a href="https://www.designyourway.net/blog/nhl-team-color-codes/" rel="noopener">designyourway.net's NHL colour list</a> and saved with their source in the repo. A second list (<a href="https://wiki.riteme.site/wiki/Module:Sports_color/ice_hockey/sandbox" rel="noopener">Wikipedia's sports colour module</a>) differs slightly for Dallas; each team's own brand page gets checked in Step 4. Generic goalies only: no player likeness, mask art or team logos. The reader preference test is set aside for now.</p>
@@ -59,10 +59,10 @@ const SUBJECTS = [
   { pose: "hd-stopper", team: "SJS", num: "30", who: "Yaroslav Askarov" },
 ];
 const ORDER = [
-  ["plate", "A", "Line-only drawing loses the most at 32 px: the white strokes thin out to a smudge on the dark plates. It suits figure pages in a brief better than leaderboard rows."],
-  ["riso", "B", "The paper ground keeps every team readable, and the halftone pads give it texture. At 32 px the pale second ink fades, so pads and gear lose their edges."],
-  ["illuminated", "C", "The closest fit to the GRJ's own look: the periwinkle field and the gilded frame. Dark jerseys (Toronto, San Jose) sit low against the navy field, so they would need a lighter field or a halo."],
-  ["glass", "D", "The lead lines outline every part in every team's colours, so shapes stay separate on light and dark jerseys alike, and it holds up best at 32 px. The arched window also reads as a frame of its own, with no extra border."],
+  ["skeletons", "E", "The most fun of the set: bone limbs, a ribcage over the jersey and a skull mask, lit in team colour. The pads and gear stay in team colours, so teams still read. At 32 px the bones turn to a busy speckle, and the dark ground needs the team glow to separate the figure."],
+  ["knights", "F", "Plate armour, a team-colour tabard and banner, and a kite shield in place of the blocker. It reads as a goalie and a knight at once. At 32 px the grey steel sinks into the grey stone, so it would need a darker wall or a coloured field."],
+  ["fantasy", "G", "Rune-lit gear, gold pauldrons, a horned helm and a cloak, against a dusk sky over mountains. Inspired by the genre, with no characters, emblems or names from any game or book. At 32 px the dark armour on a dark sky loses most of the body; the glowing gear edges carry it."],
+  ["illuminated", "C", "Kept from round 1, now with a pale gilded nimbus behind the figure, so Toronto's navy and San Jose's teal stand clear of the field. It is the closest fit to the GRJ's own look, and at 32 px every figure still separates from its ground."],
 ];
 document.getElementById("subjects").innerHTML = SUBJECTS.map((s) => `<li><b>${G.POSES[s.pose].name}</b> ${s.who}, ${TEAMS[s.team].name}</li>`).join("");
 document.getElementById("styles").innerHTML = ORDER.map(([k, letter, why], i) => {

diff --git a/illustrations/README.md b/illustrations/README.md
@@ -68,3 +68,10 @@ Every style tried stays here, so a restyle costs minutes. Each one has a one-sen
 | `plate` | Research Plate | A figure from the journal: each goalie drafted in white line on a plate of team colour. |
 | `riso` | Two-Ink Print | A club-room risograph in two team inks, with halftone pads and a little misregistration. |
 | `illuminated` | Illuminated Plate | A page from the GRJ's book of keepers: flat colour in ink outline, inside a gilded frame. |
+| `skeletons` | Skeletons | The bone crew: every goalie is a skeleton suiting up, glowing in team colour after dark. |
+| `knights` | Knights | Knights of the crease: plate armour under a team-colour tabard, with a kite shield for a blocker. |
+| `fantasy` | High Fantasy | An epic-quest keeper: rune-lit armour and a team-colour cloak against a dusk sky over far mountains. |
+
+Round 1 (Research Plate, Two-Ink Print, Stained Glass, Illuminated Plate): Goldy kept Illuminated Plate.
+Round 2 added Skeletons, Knights and High Fantasy, and gave Illuminated Plate a gilded nimbus so dark jerseys
+stand off its navy field.
